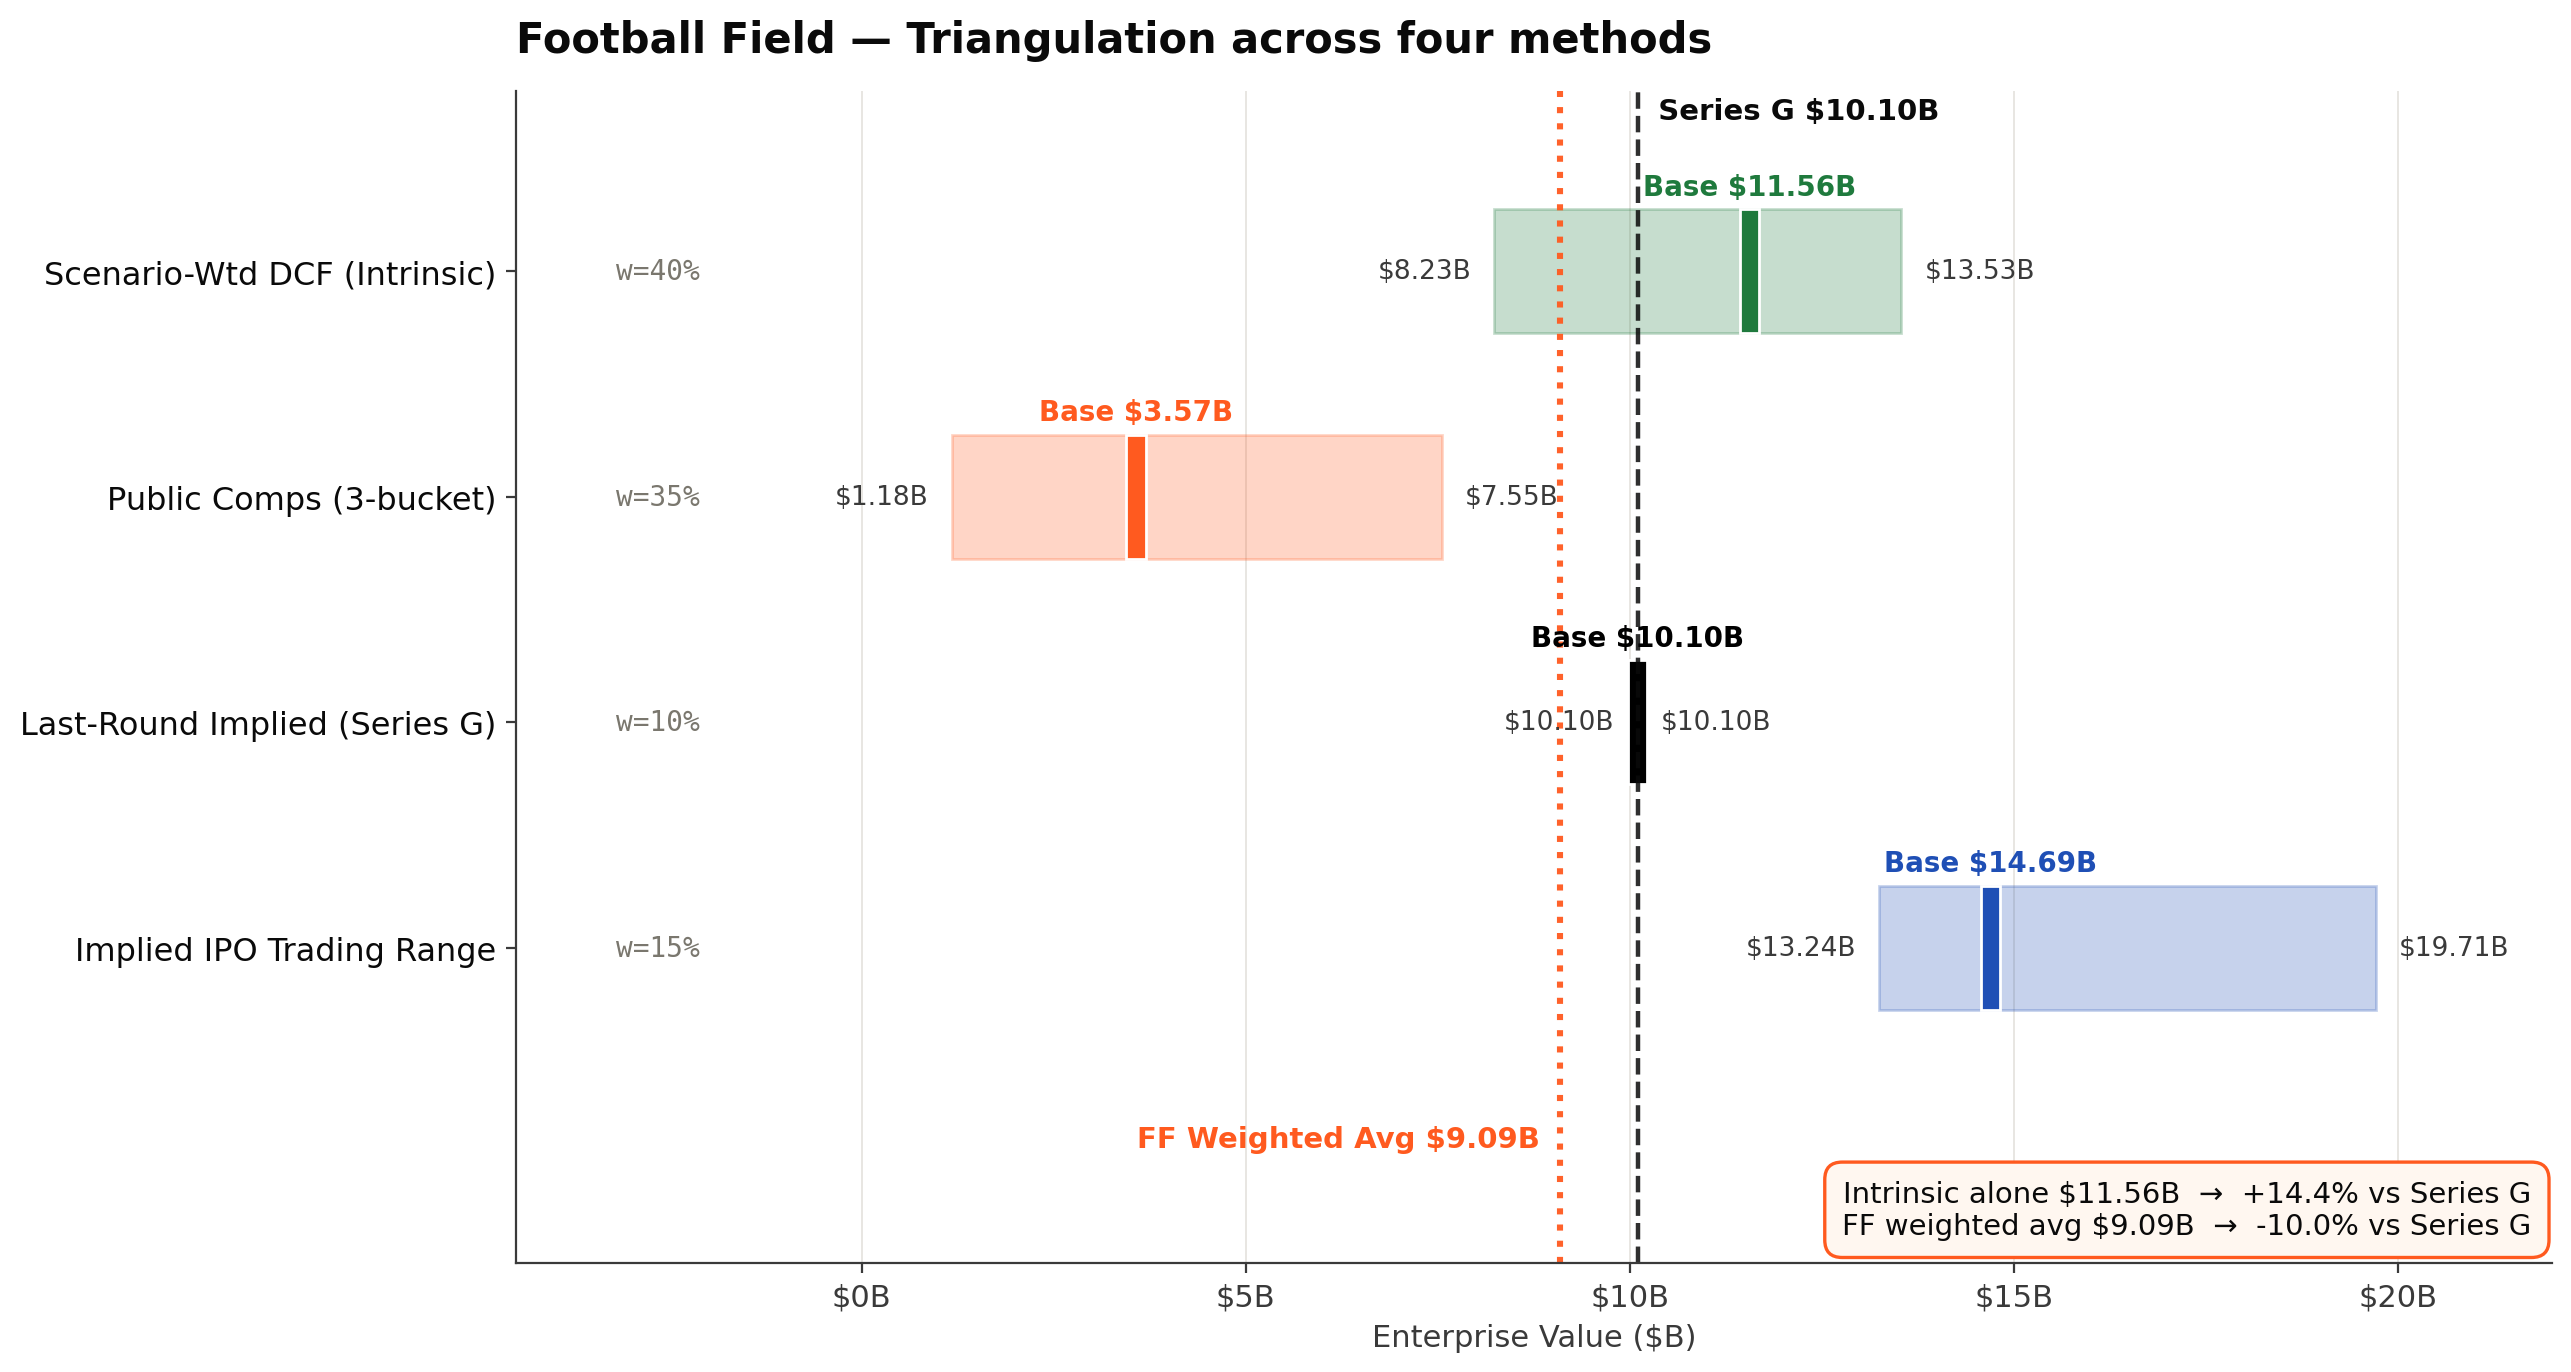
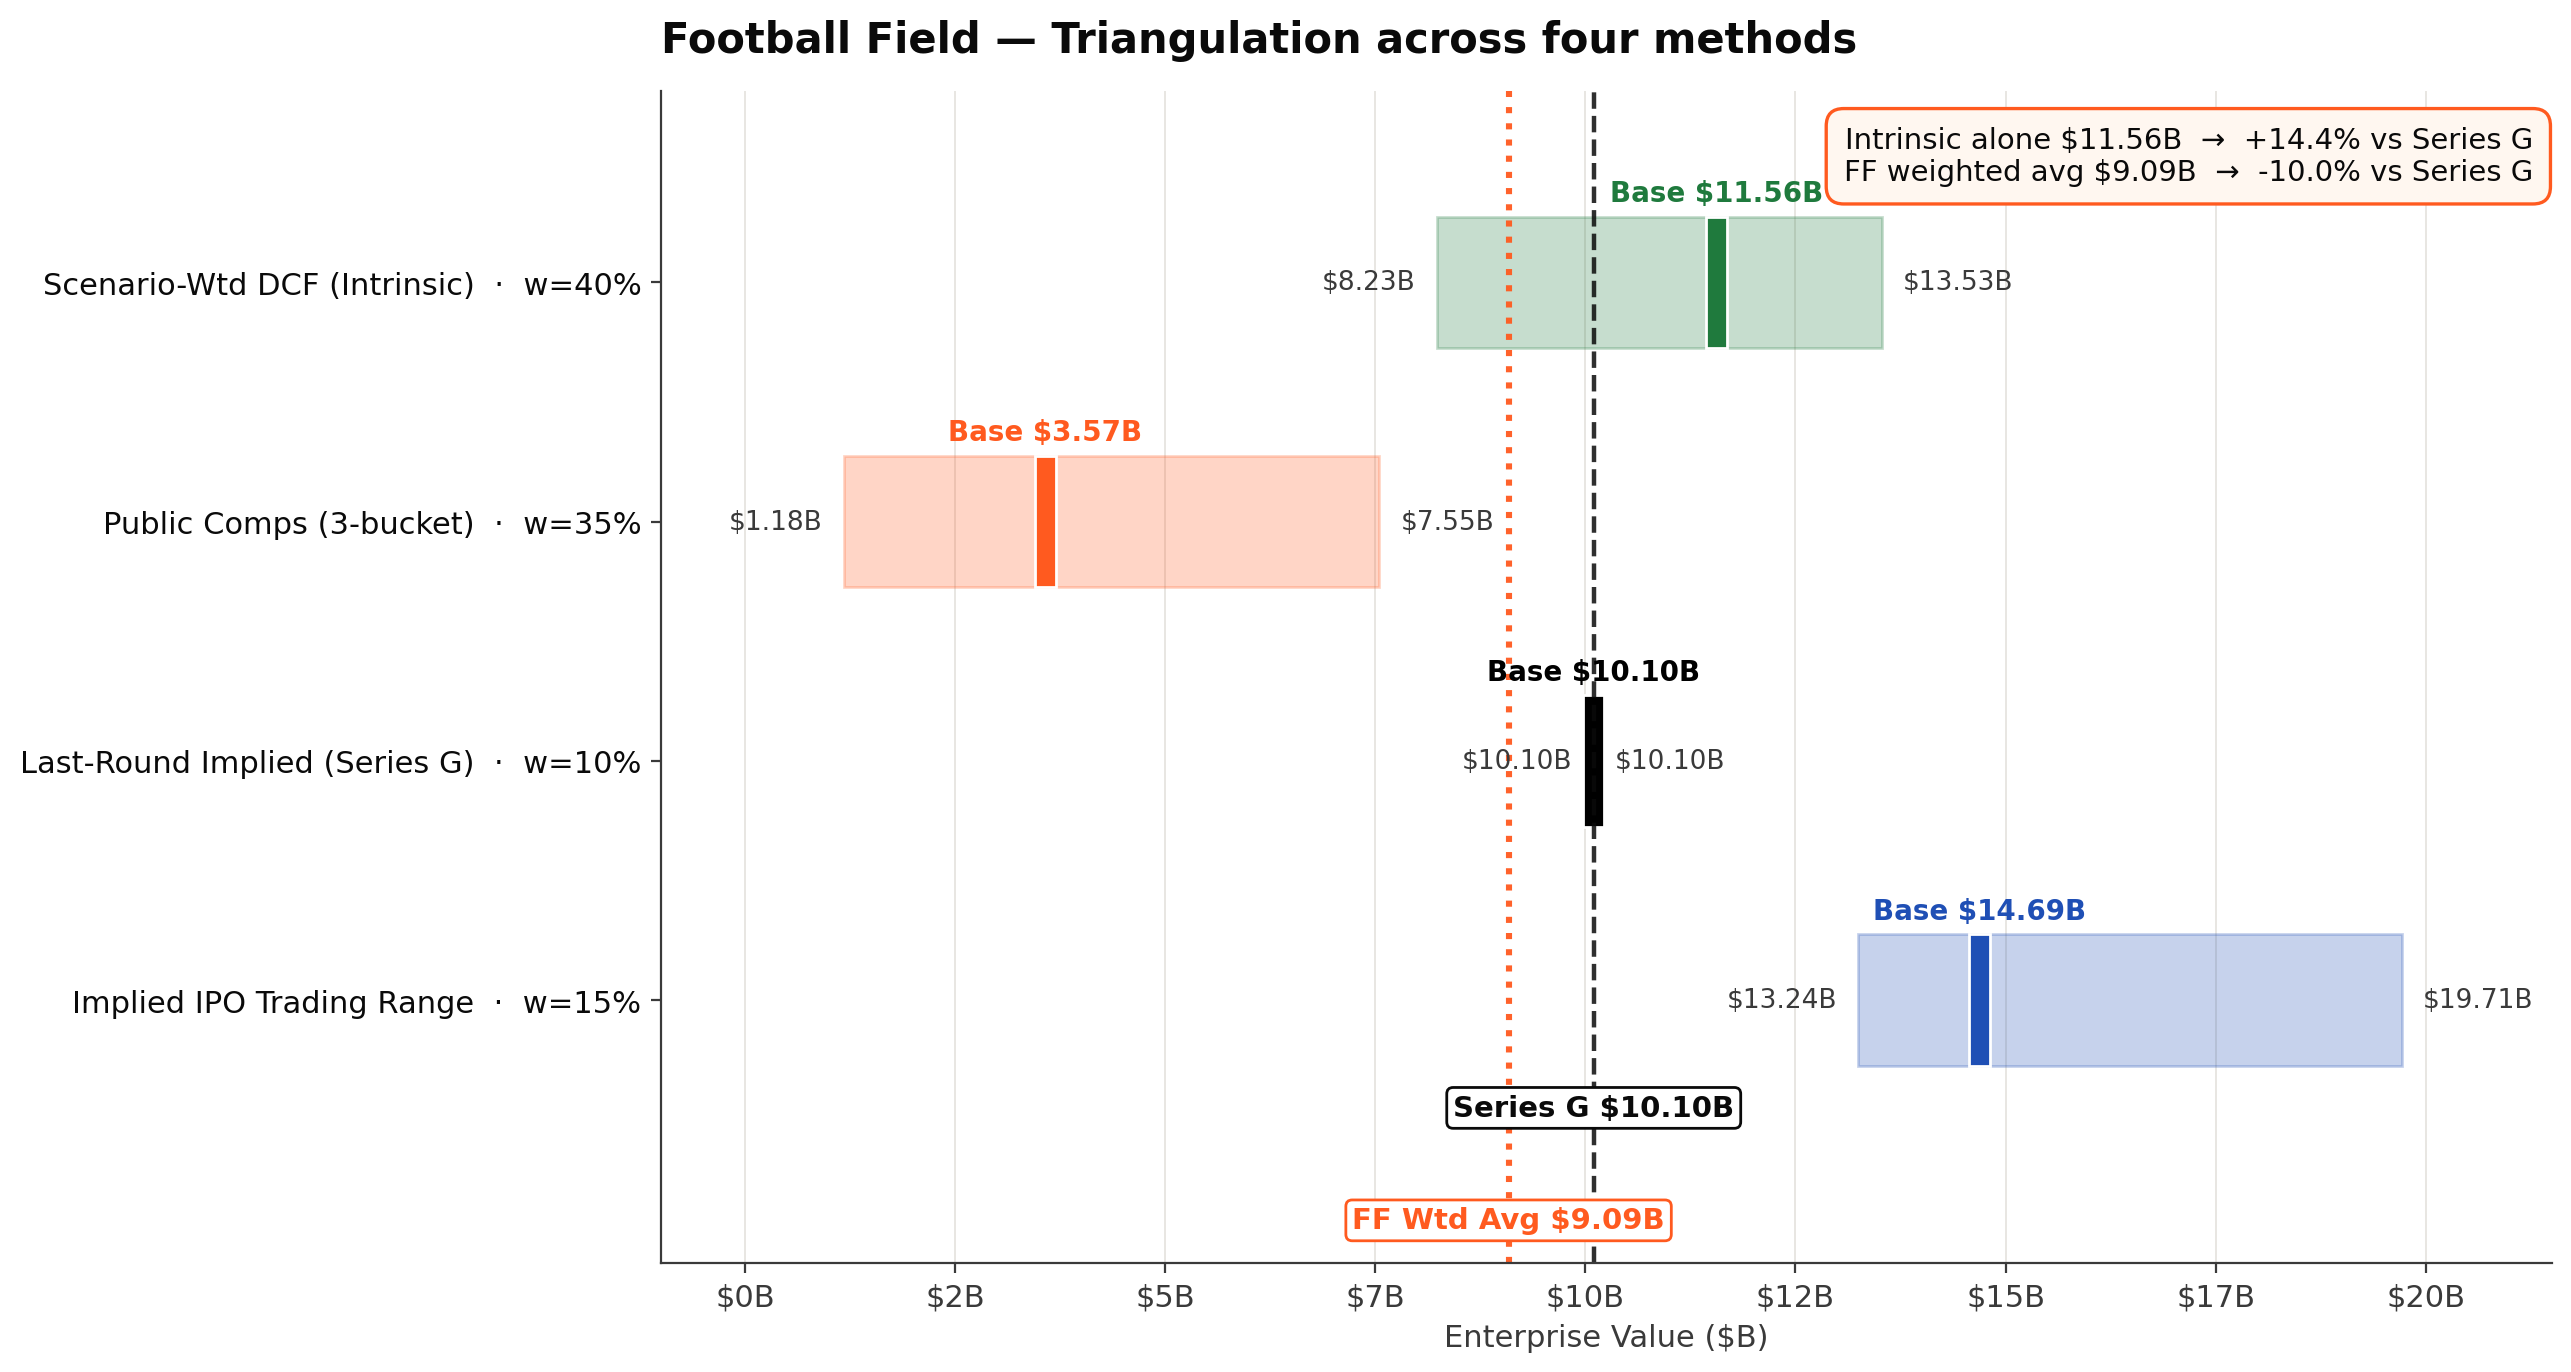
Clean up football_field visual
- Tighten xlim to actual data range, eliminating the dead zone on
  the left side of the plot.
- Move the per-method weight tag from a stranded text label into
  each row's y-axis label so the weight reads naturally with the
  method name.
- Move the Series G and FF Weighted Avg labels below the x-axis,
  stacked vertically with boxed backgrounds so they no longer
  collide with the row 3 Base label or each other.
- Reposition the premium-vs-Series-G stat box to the upper-right
  whitespace.

https://claude.ai/code/session_011NjNecq8udaBKafA5Jqxzj

diff --git a/scripts/build_visuals.py b/scripts/build_visuals.py
@@ -165,10 +165,10 @@ def football_field():
     cmp_hi = ff.get("row_10", {}).get("high", 7.55)
 
     methods = [
-        ("Implied IPO Trading Range",       ipo_lo, ipo_b, ipo_hi, 0.15, NAVY),
-        ("Last-Round Implied (Series G)",   10.10, 10.10, 10.10,   0.10, "#000000"),
-        ("Public Comps (3-bucket)",          cmp_lo, cmp_b, cmp_hi, 0.35, ORANGE),
-        ("Scenario-Wtd DCF (Intrinsic)",     sw_lo, sw_b, sw_hi,    0.40, GREEN),
+        ("Implied IPO Trading Range  ·  w=15%",     ipo_lo, ipo_b, ipo_hi, 0.15, NAVY),
+        ("Last-Round Implied (Series G)  ·  w=10%", 10.10, 10.10, 10.10,   0.10, "#000000"),
+        ("Public Comps (3-bucket)  ·  w=35%",        cmp_lo, cmp_b, cmp_hi, 0.35, ORANGE),
+        ("Scenario-Wtd DCF (Intrinsic)  ·  w=40%",   sw_lo, sw_b, sw_hi,    0.40, GREEN),
     ]
     n = len(methods)
     for i, (label, lo, base, hi, w, col) in enumerate(methods):
@@ -176,30 +176,32 @@ def football_field():
                 color=col, alpha=0.25, edgecolor=col, linewidth=1)
         ax.barh(i, 0.25, left=base - 0.125, height=0.55,
                 color=col, edgecolor="white", linewidth=1)
-        ax.text(lo - 0.3, i, f"${lo:.2f}B", va="center", ha="right",
+        ax.text(lo - 0.25, i, f"${lo:.2f}B", va="center", ha="right",
                 fontsize=9.5, color=GRAY_BD)
-        ax.text(hi + 0.3, i, f"${hi:.2f}B", va="center", ha="left",
+        ax.text(hi + 0.25, i, f"${hi:.2f}B", va="center", ha="left",
                 fontsize=9.5, color=GRAY_BD)
         ax.text(base, i + 0.34, f"Base ${base:.2f}B", ha="center",
                 fontsize=10, color=col, fontweight="bold")
-        ax.text(-3.2, i, f"w={int(w*100)}%", va="center", ha="left",
-                fontsize=10, color=GRAY_FT, family="monospace")
 
-    # Series G ref
+    # Series G ref — label below x-axis, upper line
     ax.axvline(10.10, color=DARK, linestyle="--", linewidth=1.6, alpha=0.85)
-    ax.text(10.10, n - 0.35, "  Series G $10.10B", color=DARK,
-            fontsize=10.5, fontweight="bold", va="bottom")
+    ax.text(10.10, -0.45, "Series G $10.10B", color=DARK,
+            fontsize=10.5, fontweight="bold", va="center", ha="center",
+            bbox=dict(facecolor="white", edgecolor=DARK,
+                      boxstyle="round,pad=0.22", linewidth=1))
 
-    # FF weighted average line
+    # FF weighted average line — label below Series G label
     ff_wavg = float(M.get("ff_d18", 9.09))
     ax.axvline(ff_wavg, color=ORANGE, linestyle=":", linewidth=2.2, alpha=0.95)
-    ax.text(ff_wavg, -0.85, f"FF Weighted Avg ${ff_wavg:.2f}B  ", color=ORANGE,
-            fontsize=10.5, fontweight="bold", ha="right", va="center")
+    ax.text(ff_wavg, -0.92, f"FF Wtd Avg ${ff_wavg:.2f}B", color=ORANGE,
+            fontsize=10.5, fontweight="bold", ha="center", va="center",
+            bbox=dict(facecolor="white", edgecolor=ORANGE,
+                      boxstyle="round,pad=0.22", linewidth=1))
 
     ax.set_yticks(range(n))
-    ax.set_yticklabels([m[0] for m in methods], fontsize=11.5, color=DARK)
-    ax.set_xlim(-4.5, 22.0)
-    ax.set_ylim(-1.4, n - 0.2)
+    ax.set_yticklabels([m[0] for m in methods], fontsize=11.0, color=DARK)
+    ax.set_xlim(-1.0, 21.5)
+    ax.set_ylim(-1.1, n - 0.2)
     ax.xaxis.set_major_formatter(FuncFormatter(lambda x, p: f"${int(x)}B" if x >= 0 else ""))
     ax.set_xlabel("Enterprise Value ($B)", fontsize=11, color=GRAY_BD)
     ax.set_title("Football Field — Triangulation across four methods",
@@ -209,8 +211,8 @@ def football_field():
     prem_ff  = (ff_wavg * 1000 / 10100) - 1
     txt = (f"Intrinsic alone ${sw_b:.2f}B  →  {prem_int*100:+.1f}% vs Series G\n"
            f"FF weighted avg ${ff_wavg:.2f}B  →  {prem_ff*100:+.1f}% vs Series G")
-    ax.text(0.99, 0.02, txt, transform=ax.transAxes,
-            ha="right", va="bottom", fontsize=10.5, color=DARK,
+    ax.text(0.99, 0.97, txt, transform=ax.transAxes,
+            ha="right", va="top", fontsize=10.5, color=DARK,
             bbox=dict(facecolor="#FFF7F0", edgecolor=ORANGE,
                       boxstyle="round,pad=0.6", linewidth=1.2))
     ax.grid(axis="x", color=GRAY_LT, linewidth=0.6, alpha=0.7)
